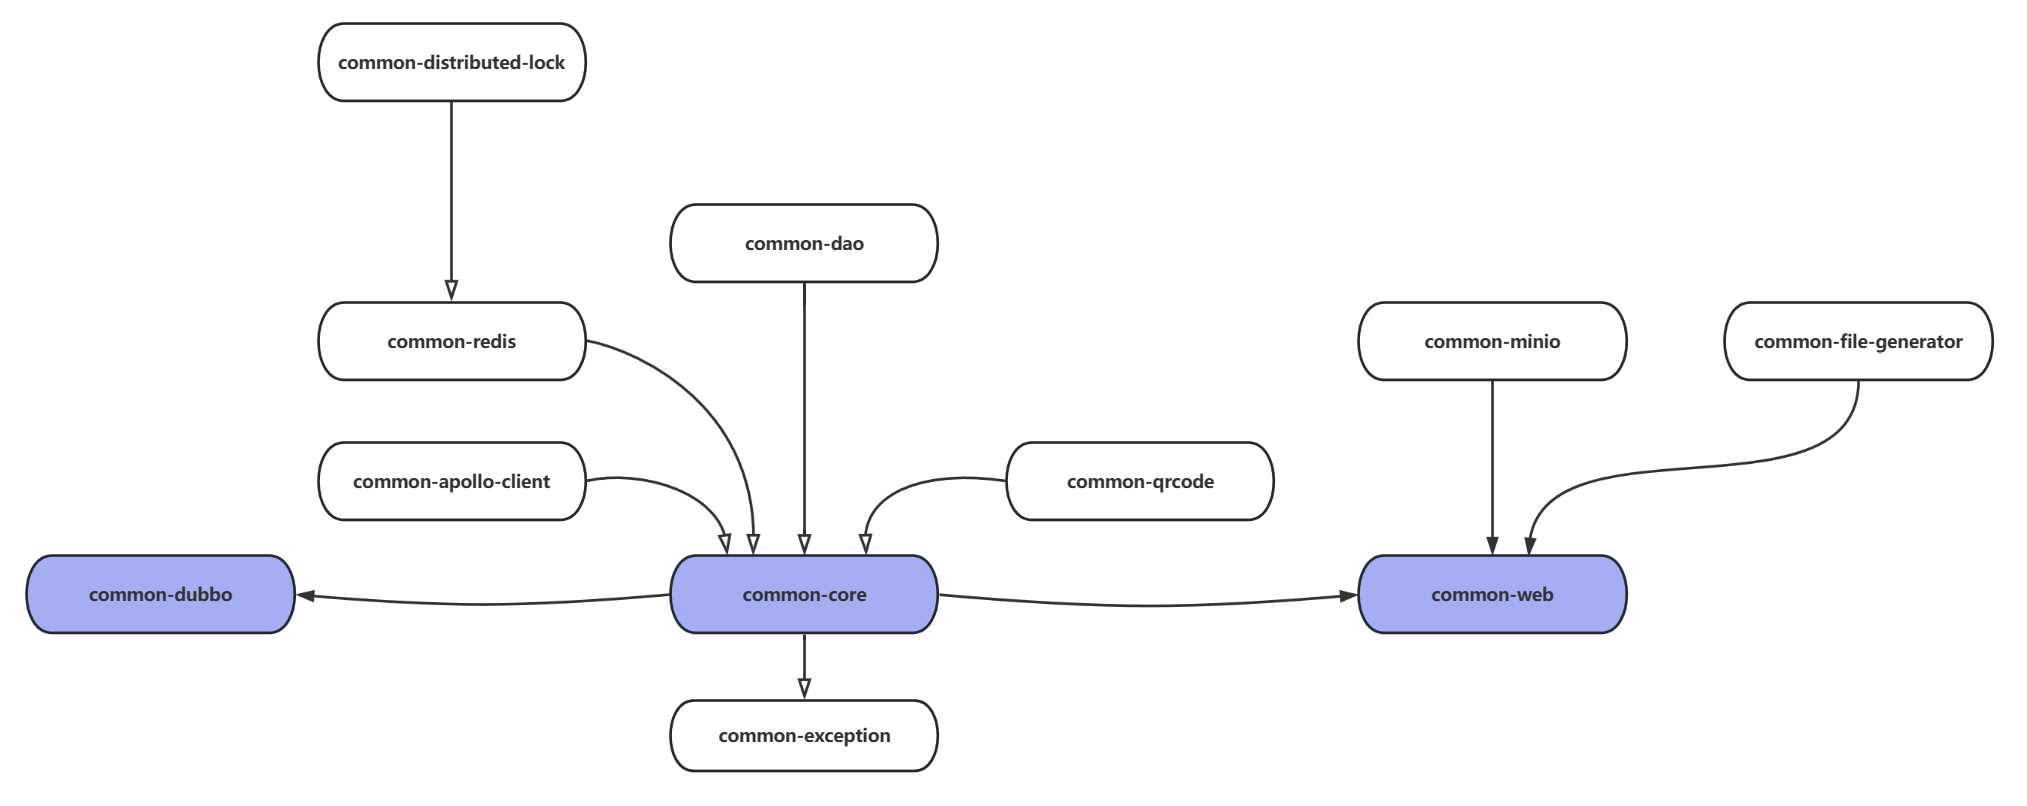
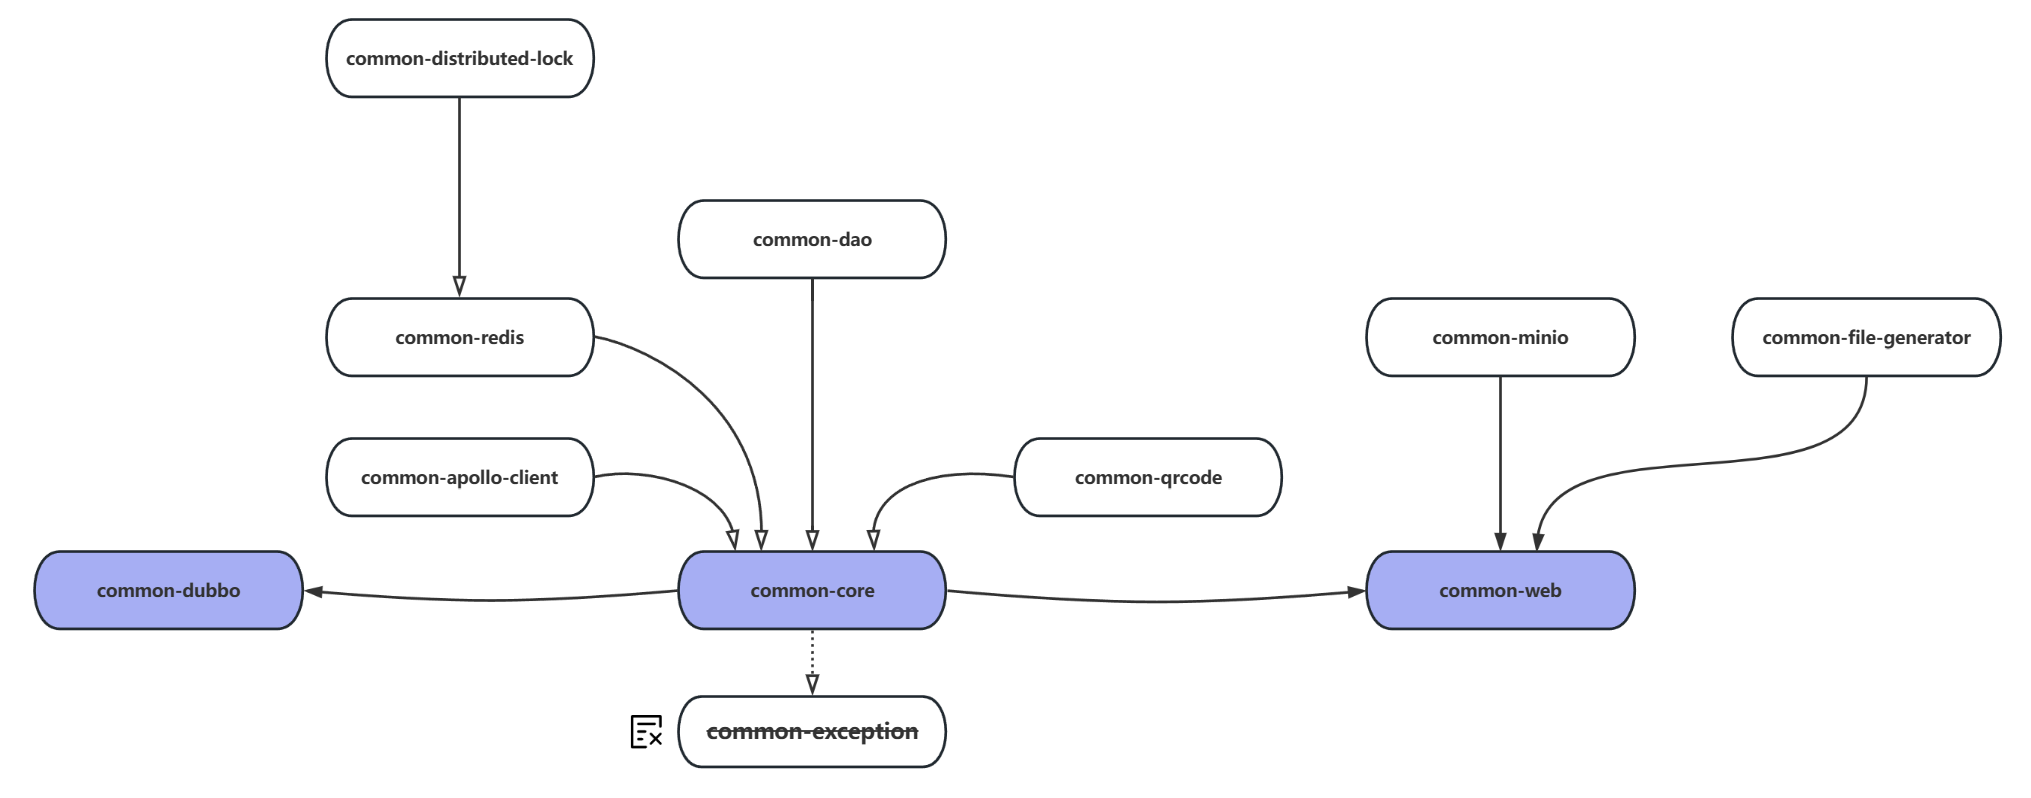
🔓[更新]: 移除common-exception模块，将异常类移动至common-core 1.使得异常类可以直接使用系统响应码进行构造/初始化。

diff --git a/abc/abc-boot-starter-dependencies/abc-boot-starter-parent/abc-common/abc-common-core/src/main/java/com/abc/system/common/exception/base/BaseException.java b/abc/abc-boot-starter-dependencies/abc-boot-starter-parent/abc-common/abc-common-core/src/main/java/com/abc/system/common/exception/base/BaseException.java
@@ -1,16 +1,26 @@
 package com.abc.system.common.exception.base;
 
+import com.abc.system.common.constant.SystemRetCodeConstants;
+
 /**
+ * <pre>
  * 系统内部自定义异常基类
  * 1.errorCode:String
  * 2.message:String
  *   2.1 使用message属性是为了与Throwable接口中message保持一致，从而与普通异常在调用获取异常消息API时保持一致性。
+ * </pre>
  */
-public class BaseException extends RuntimeException{
+public class BaseException extends RuntimeException {
     protected String errorCode;
     protected String message;
 
     public BaseException() {
+    }
+
+    public BaseException(SystemRetCodeConstants systemRetCodeConstants) {
+        super();
+        this.errorCode = systemRetCodeConstants.getCode();
+        this.message = systemRetCodeConstants.getMessage();
     }
 
     public BaseException(String errorCode) {

diff --git a/abc/abc-boot-starter-dependencies/abc-boot-starter-parent/abc-common/abc-common-redis/src/main/java/com/abc/system/common/redis/service/RedisService.java b/abc/abc-boot-starter-dependencies/abc-boot-starter-parent/abc-common/abc-common-redis/src/main/java/com/abc/system/common/redis/service/RedisService.java
@@ -1,5 +1,8 @@
 package com.abc.system.common.redis.service;
 
+import com.abc.system.common.constant.SystemRetCodeConstants;
+import com.abc.system.common.exception.redis.RedisException;
+import org.apache.commons.lang3.StringUtils;
 import org.springframework.data.redis.core.BoundSetOperations;
 import org.springframework.data.redis.core.HashOperations;
 import org.springframework.data.redis.core.RedisTemplate;
@@ -264,6 +267,13 @@ public class RedisService {
      */
     public Collection<String> keys(final String pattern) {
         return redisTemplate.keys(pattern);
+    }
+
+
+    private void keyExistsCheck(String key){
+        if(StringUtils.isEmpty(key)) {
+            // throw new RedisException(SystemRetCodeConstants.REDIS_KEY_NOT_EXISTS);
+        }
     }
 }
 

diff --git a/abc/abc-boot-starter-dependencies/abc-boot-starter-parent/abc-common/abc-common-core/src/main/java/com/abc/system/common/exception/business/BizException.java b/abc/abc-boot-starter-dependencies/abc-boot-starter-parent/abc-common/abc-common-core/src/main/java/com/abc/system/common/exception/business/BizException.java
@@ -1,5 +1,6 @@
 package com.abc.system.common.exception.business;
 
+import com.abc.system.common.constant.SystemRetCodeConstants;
 import com.abc.system.common.exception.base.BaseException;
 
 /**
@@ -7,6 +8,12 @@ import com.abc.system.common.exception.base.BaseException;
  */
 public class BizException extends BaseException {
     public BizException() {
+    }
+
+    public BizException(SystemRetCodeConstants systemRetCodeConstants) {
+        super();
+        this.errorCode = systemRetCodeConstants.getCode();
+        this.message = systemRetCodeConstants.getMessage();
     }
 
     public BizException(String errorCode) {

diff --git a/abc/abc-boot-starter-dependencies/abc-boot-starter-parent/abc-common/abc-common-core/src/main/java/com/abc/system/common/exception/redis/RedisException.java b/abc/abc-boot-starter-dependencies/abc-boot-starter-parent/abc-common/abc-common-core/src/main/java/com/abc/system/common/exception/redis/RedisException.java
@@ -1,5 +1,6 @@
 package com.abc.system.common.exception.redis;
 
+import com.abc.system.common.constant.SystemRetCodeConstants;
 import com.abc.system.common.exception.base.BaseException;
 
 /**
@@ -14,6 +15,12 @@ public class RedisException extends BaseException {
 
     public RedisException() {
         super();
+    }
+
+    public RedisException(SystemRetCodeConstants systemRetCodeConstants) {
+        super();
+        this.errorCode = systemRetCodeConstants.getCode();
+        this.message = systemRetCodeConstants.getMessage();
     }
 
     public RedisException(String errorCode) {
